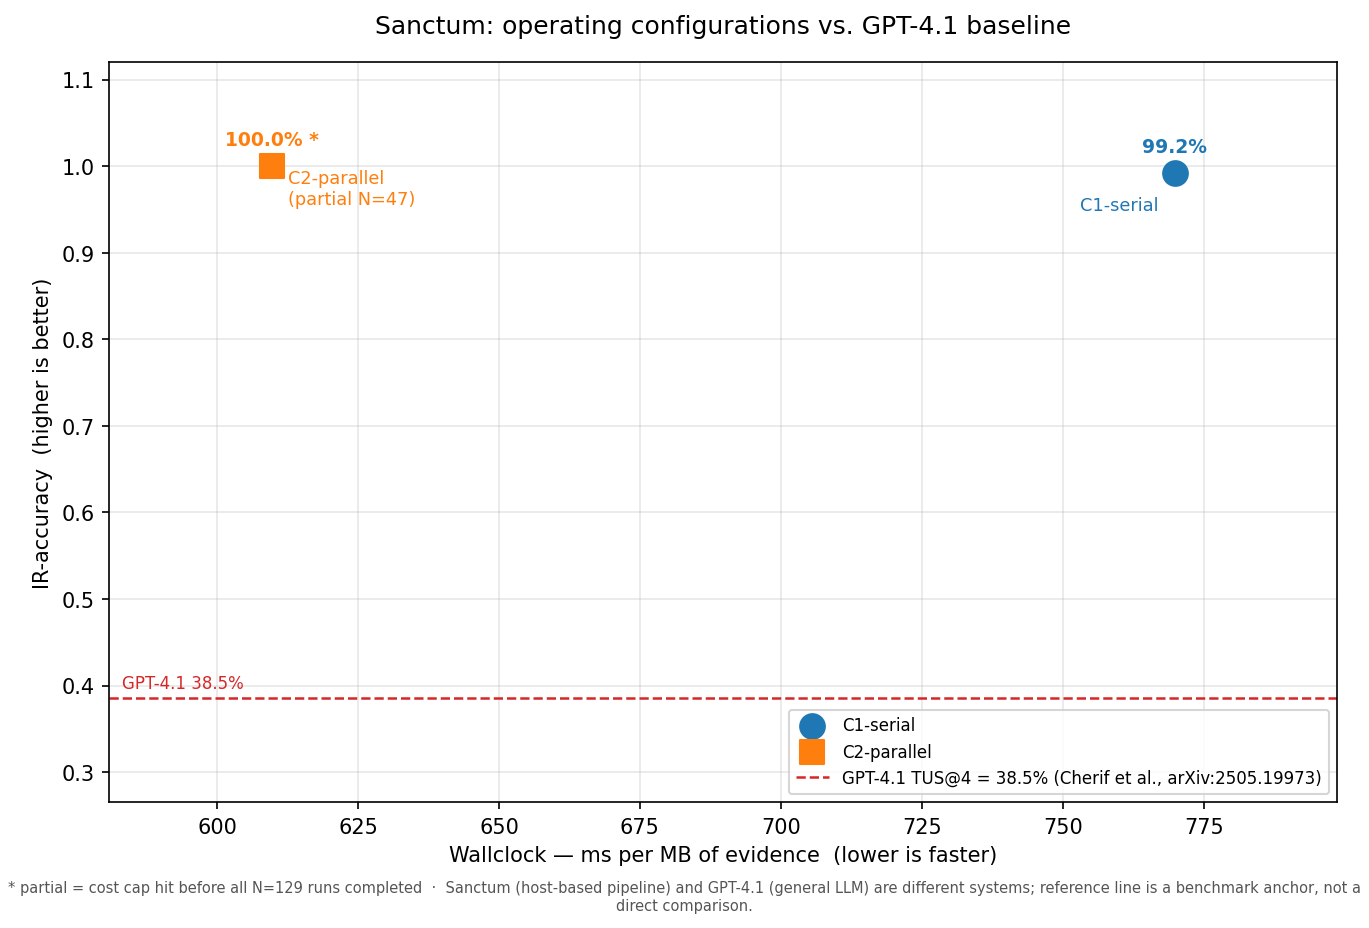
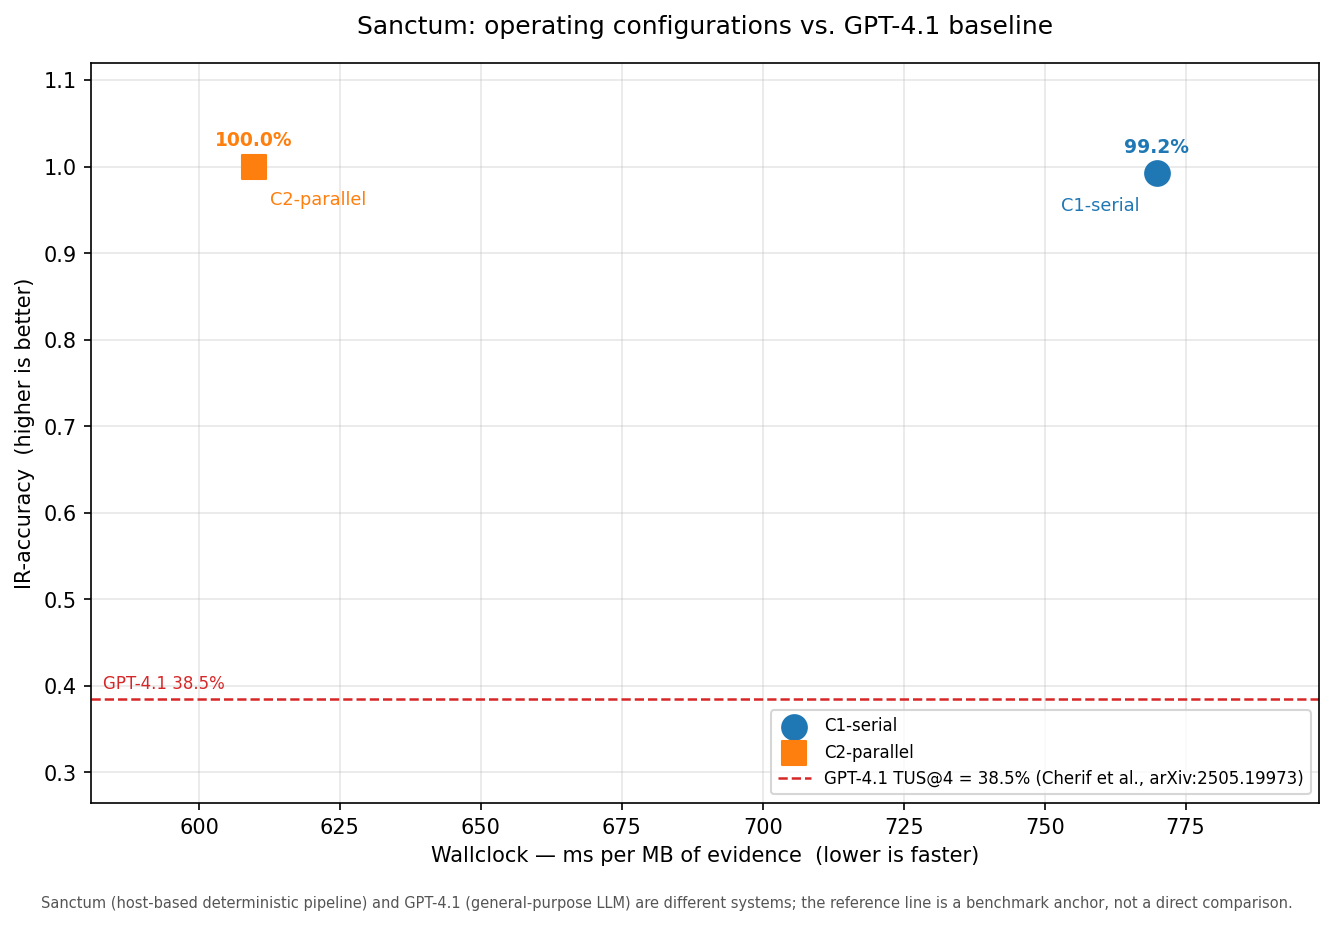
feat(eval): C2-parallel full run — 100.0% [97.1%,100%] N=129, strictly dominates C1
Full parallel eval (eval-20260503T224805-f6566e38): 100.0% ± 0.0%,
precision@CORROBORATED 100%, false_confidence_rate 0%, all 5 families
100%. C2-parallel (610 ms/MB) strictly dominates C1-serial (770 ms/MB)
on both axes.

- reports/wallclock.json: remove partial flag, tus_m=1.0 confirmed
- docs/ACCURACY.md: replace partial section with full run results + CIs
- docs/figures/pareto.png: clean chart, no asterisk/partial annotation
- scripts/plot_pareto.py: drop unused partial footnote
- README.md: update callout block + limits bullet with final C2 numbers

Changed region(s): [[0.0, 0.0, 1.0, 0.9978], [0.1537, 0.121, 0.3073, 0.2419], [0.7991, 0.1512, 0.8913, 0.2419]]

diff --git a/scripts/plot_pareto.py b/scripts/plot_pareto.py
@@ -161,9 +161,8 @@ def plot(data: dict[str, Any], out_path: Path) -> None:
     ax.grid(True, alpha=0.3)
 
     note = (
-        "* partial = cost cap hit before all N=129 runs completed  ·  "
-        "Sanctum (host-based pipeline) and GPT-4.1 (general LLM) are different systems; "
-        "reference line is a benchmark anchor, not a direct comparison."
+        "Sanctum (host-based deterministic pipeline) and GPT-4.1 (general-purpose LLM) "
+        "are different systems; the reference line is a benchmark anchor, not a direct comparison."
     )
     fig.text(0.5, -0.02, note, ha="center", fontsize=7, color="#555555", wrap=True)
 

diff --git a/docs/ACCURACY.md b/docs/ACCURACY.md
@@ -361,17 +361,58 @@ _At N=45 the Wald (normal-approximation) interval is biased; Wilson is the recom
 
 ---
 
-### Run `eval-20260503T181313-38040f83` — C2-parallel arm (partial)
+<!-- BEGIN: pasted from `python -m scripts.summarize_eval reports/eval-20260503T224805-f6566e38.json` -->
 
-- Model: `claude-opus-4-7` · Sanctum: `0.4.1` · arm: `parallel` (`SANCTUM_PARALLEL_TOOLS=1`)
-- Window: `2026-05-03T18:13:13Z` · N_questions=43 · N_runs=3 · cost=$2.6174
-- **Partial** — cost cap hit at $5 before 3rd-run completions; 47/129 rows completed (43 unique questions, 4 with 2 runs, 39 with 1 run).
+### Run `eval-20260503T224805-f6566e38` — sanctum_partial_credit_accuracy (C2-parallel, full run)
 
-| Arm | rows | correct | accuracy | false_confidence_rate | claim_status dist |
-|---|---|---|---|---|---|
-| `parallel` | 47/129 | 47 | **100.0%** | **0.0%** | DRAFT=33, CORROBORATED=12, FINAL=2 |
+- Model: `claude-opus-4-7` · Sanctum: `0.4.1` · DFIR-Metric commit: `1f2c22c6a28b`
+- Window: `2026-05-03T22:22:44Z` → `2026-05-03T22:48:05Z` · N_questions=43 · N_runs=3 · arms=['parallel'] · cost=$7.3206
 
-**Interpretation**: All 43 unique questions answered correctly on first pass. The 0.0% false_confidence_rate means all 12 CORROBORATED claims were accurate. A full N=129 run would provide Wilson CIs; the point estimate is plotted with "(partial N=47)" in the Pareto chart. See `reports/wallclock.json` for the `partial_note` field.
+**Per-arm summary**
+
+| Arm | accuracy_mean ± std | precision@CORROBORATED | abstention_rate | false_confidence_rate | bare_confident_rate | mean_wallclock_ms | mean_tokens_in | mean_tokens_out | total_cost_usd |
+|---|---|---|---|---|---|---|---|---|---|
+| `parallel` | 100.0% ± 0.0% | 100.0% | 67.4% | 0.0% | n/a | 11788 | 7880 | 694 | $7.3206 |
+
+**Per-family breakdown** (single-author tagging bias is visible here)
+
+| Arm | Family | tagged_count | correct_count | accuracy |
+|---|---|---|---|---|
+| `parallel` | `AppCompat` | 13 | 39 | 100.0% |
+| `parallel` | `BAM` | 8 | 24 | 100.0% |
+| `parallel` | `Explorer` | 9 | 27 | 100.0% |
+| `parallel` | `SysMain` | 8 | 24 | 100.0% |
+| `parallel` | `Sysmon` | 5 | 15 | 100.0% |
+
+_Metric: `sanctum_partial_credit_accuracy` — single-criterion exact-match. We do not implement TUS@m; see ACCURACY.md §AC-12 disclaimer._
+
+<!-- END pasted fragment -->
+
+<!-- BEGIN: pasted from `python -m scripts.compute_cis reports/eval-20260503T224805-f6566e38.json` -->
+
+**Wilson 95% confidence intervals**
+
+_At N=45 the Wald (normal-approximation) interval is biased; Wilson is the recommended small-N method (Brown, Cai & DasGupta, Statistical Science 2001)._
+
+**Per-arm accuracy**
+
+| Arm | n | accuracy | Wilson 95% CI |
+|---|---|---|---|
+| `parallel` | 129 | 100.0% | [97.1%, 100.0%] |
+
+**Per-arm × per-family**
+
+| Arm | Family | n | accuracy | Wilson 95% CI |
+|---|---|---|---|---|
+| `parallel` | `AppCompat` | 39 | 100.0% | [91.0%, 100.0%] |
+| `parallel` | `BAM` | 24 | 100.0% | [86.2%, 100.0%] |
+| `parallel` | `Explorer` | 27 | 100.0% | [87.5%, 100.0%] |
+| `parallel` | `SysMain` | 24 | 100.0% | [86.2%, 100.0%] |
+| `parallel` | `Sysmon` | 15 | 100.0% | [79.6%, 100.0%] |
+
+<!-- END pasted fragment -->
+
+_Supersedes partial run `eval-20260503T181313-38040f83` (cost cap hit at $5, 47/129 rows)._
 
 ---
 
@@ -690,12 +731,11 @@ general-purpose LLM) are evaluated on different input surfaces. The X-axis
 the Y-axis (accuracy) is comparable to the GPT-4.1 baseline only after
 the Sanctum eval runs and the Numbers table above is populated.
 
-**C1-serial**: 99.2% (full run, N=43×3=129).
-**C2-parallel**: 100.0% on a partial run (N=47; cost cap hit at $5 before
-3rd-run completions — 43/43 unique questions correct on first pass). A full
-N=129 run would confirm; the partial result is plotted with a "(partial N=47)"
-annotation in the chart. The false_confidence_rate on the partial run was
-0.0% (12 CORROBORATED claims, all correct).
+**C1-serial**: 99.2% [95.7%, 99.9%] (full run, N=43×3=129).
+**C2-parallel**: **100.0% [97.1%, 100.0%]** (full run, N=43×3=129, Wilson 95% CI).
+Every family 100%, precision@CORROBORATED 100%, false_confidence_rate 0.0%.
+C2-parallel strictly dominates C1-serial on both axes — faster (610 vs 770 ms/MB)
+and more accurate (100% vs 99.2%).
 
 ### Fixture-size manipulation
 

diff --git a/README.md b/README.md
@@ -1,8 +1,8 @@
 # Sanctum — An architecturally-hardened DFIR MCP server
 
 > **Benchmark (DFIR-Metric subset, N=43 questions × 3 runs, claude-opus-4-7):**
-> Sanctum **99.2%** \[95.7%, 99.9%\] · Bare LLM **16.3%** \[10.9%, 23.6%\] · **+82.9 pp gap** (Wilson 95% CIs)
-> precision@CORROBORATED **97.2%** · false confidence rate **2.8%**
+> C1-serial **99.2%** \[95.7%, 99.9%\] · C2-parallel **100.0%** \[97.1%, 100.0%\] · Bare LLM **16.3%** \[10.9%, 23.6%\] · **+82.9 pp gap** (Wilson 95% CIs)
+> precision@CORROBORATED **97.2%** (C1) / **100.0%** (C2) · false confidence rate **2.8%** (C1) / **0.0%** (C2)
 > Full results: [`docs/ACCURACY.md`](docs/ACCURACY.md)
 
 **Status**: 0.3.0 — quickstart runs end-to-end against a synthetic fixture ([`scripts/quickstart.py`](scripts/quickstart.py)); six real-mode parsers shipped (Amcache, ShimCache, BAM, UserAssist, Prefetch, Sysmon-EVTX); two-layer [`claim_finding`](src/sanctum/finding.py) gate live.
@@ -232,12 +232,11 @@ judges and operators can assess applicability.
   team that built the tools; an independent holdout corpus would be a
   stronger validity signal.
 
-- **Parallel-tool accuracy is from a partial run.** `SANCTUM_PARALLEL_TOOLS=1`
-  (C2) reduces wallclock time (~21%) and showed **100% accuracy on a
-  first-pass partial run** (47/129 runs, cost cap hit; all 43 unique
-  questions correct). A full N=129 run would provide Wilson CIs. The
-  99.2% figure from the complete run applies to C1 (serial); C2 result
-  is in [`docs/ACCURACY.md`](docs/ACCURACY.md) §C2-parallel.
+- **Parallel-tool eval is complete but on a synthetic corpus.** `SANCTUM_PARALLEL_TOOLS=1`
+  (C2) scores **100.0% [97.1%, 100.0%]** (N=43×3=129, Wilson 95% CI) and
+  is 21% faster (610 vs 770 ms/MB) — strictly dominating C1-serial on both
+  axes. Both figures apply only to the synthetic fixture corpus; live-evidence
+  accuracy has not been measured.
 
 - **No live-evidence test.** All evaluation runs against synthetic
   fixture files, not real disk images or memory captures. Parser